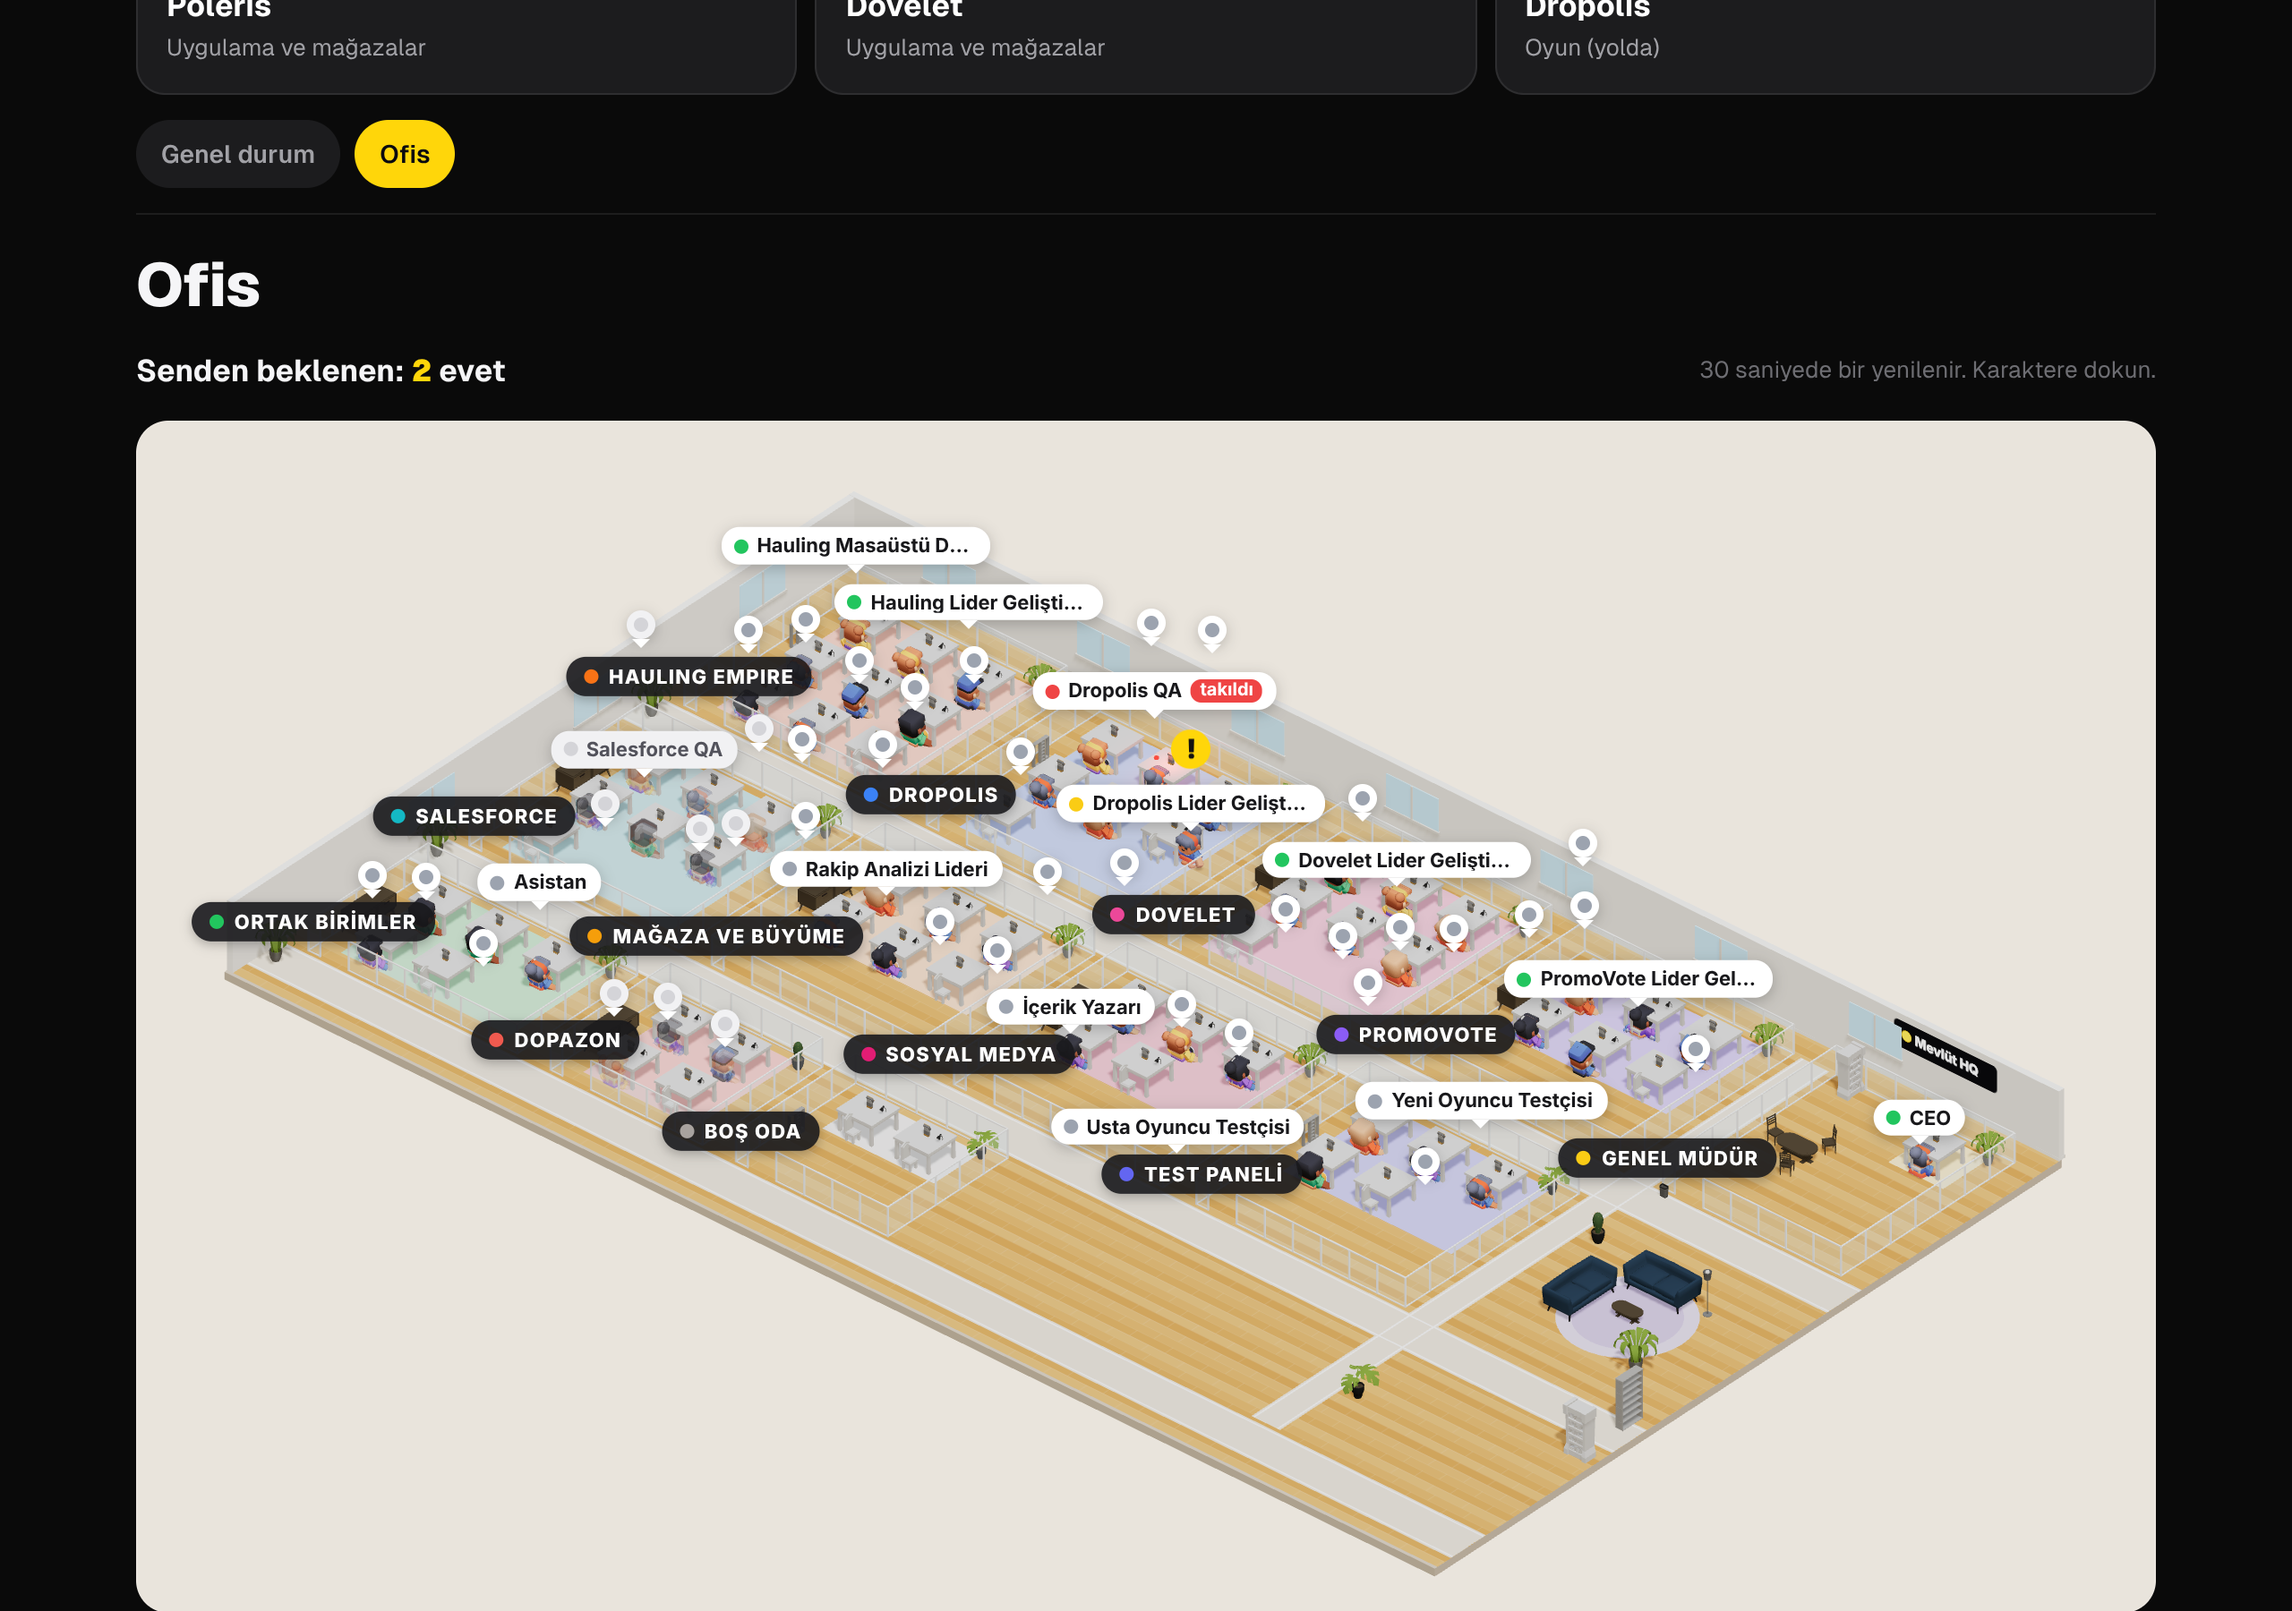
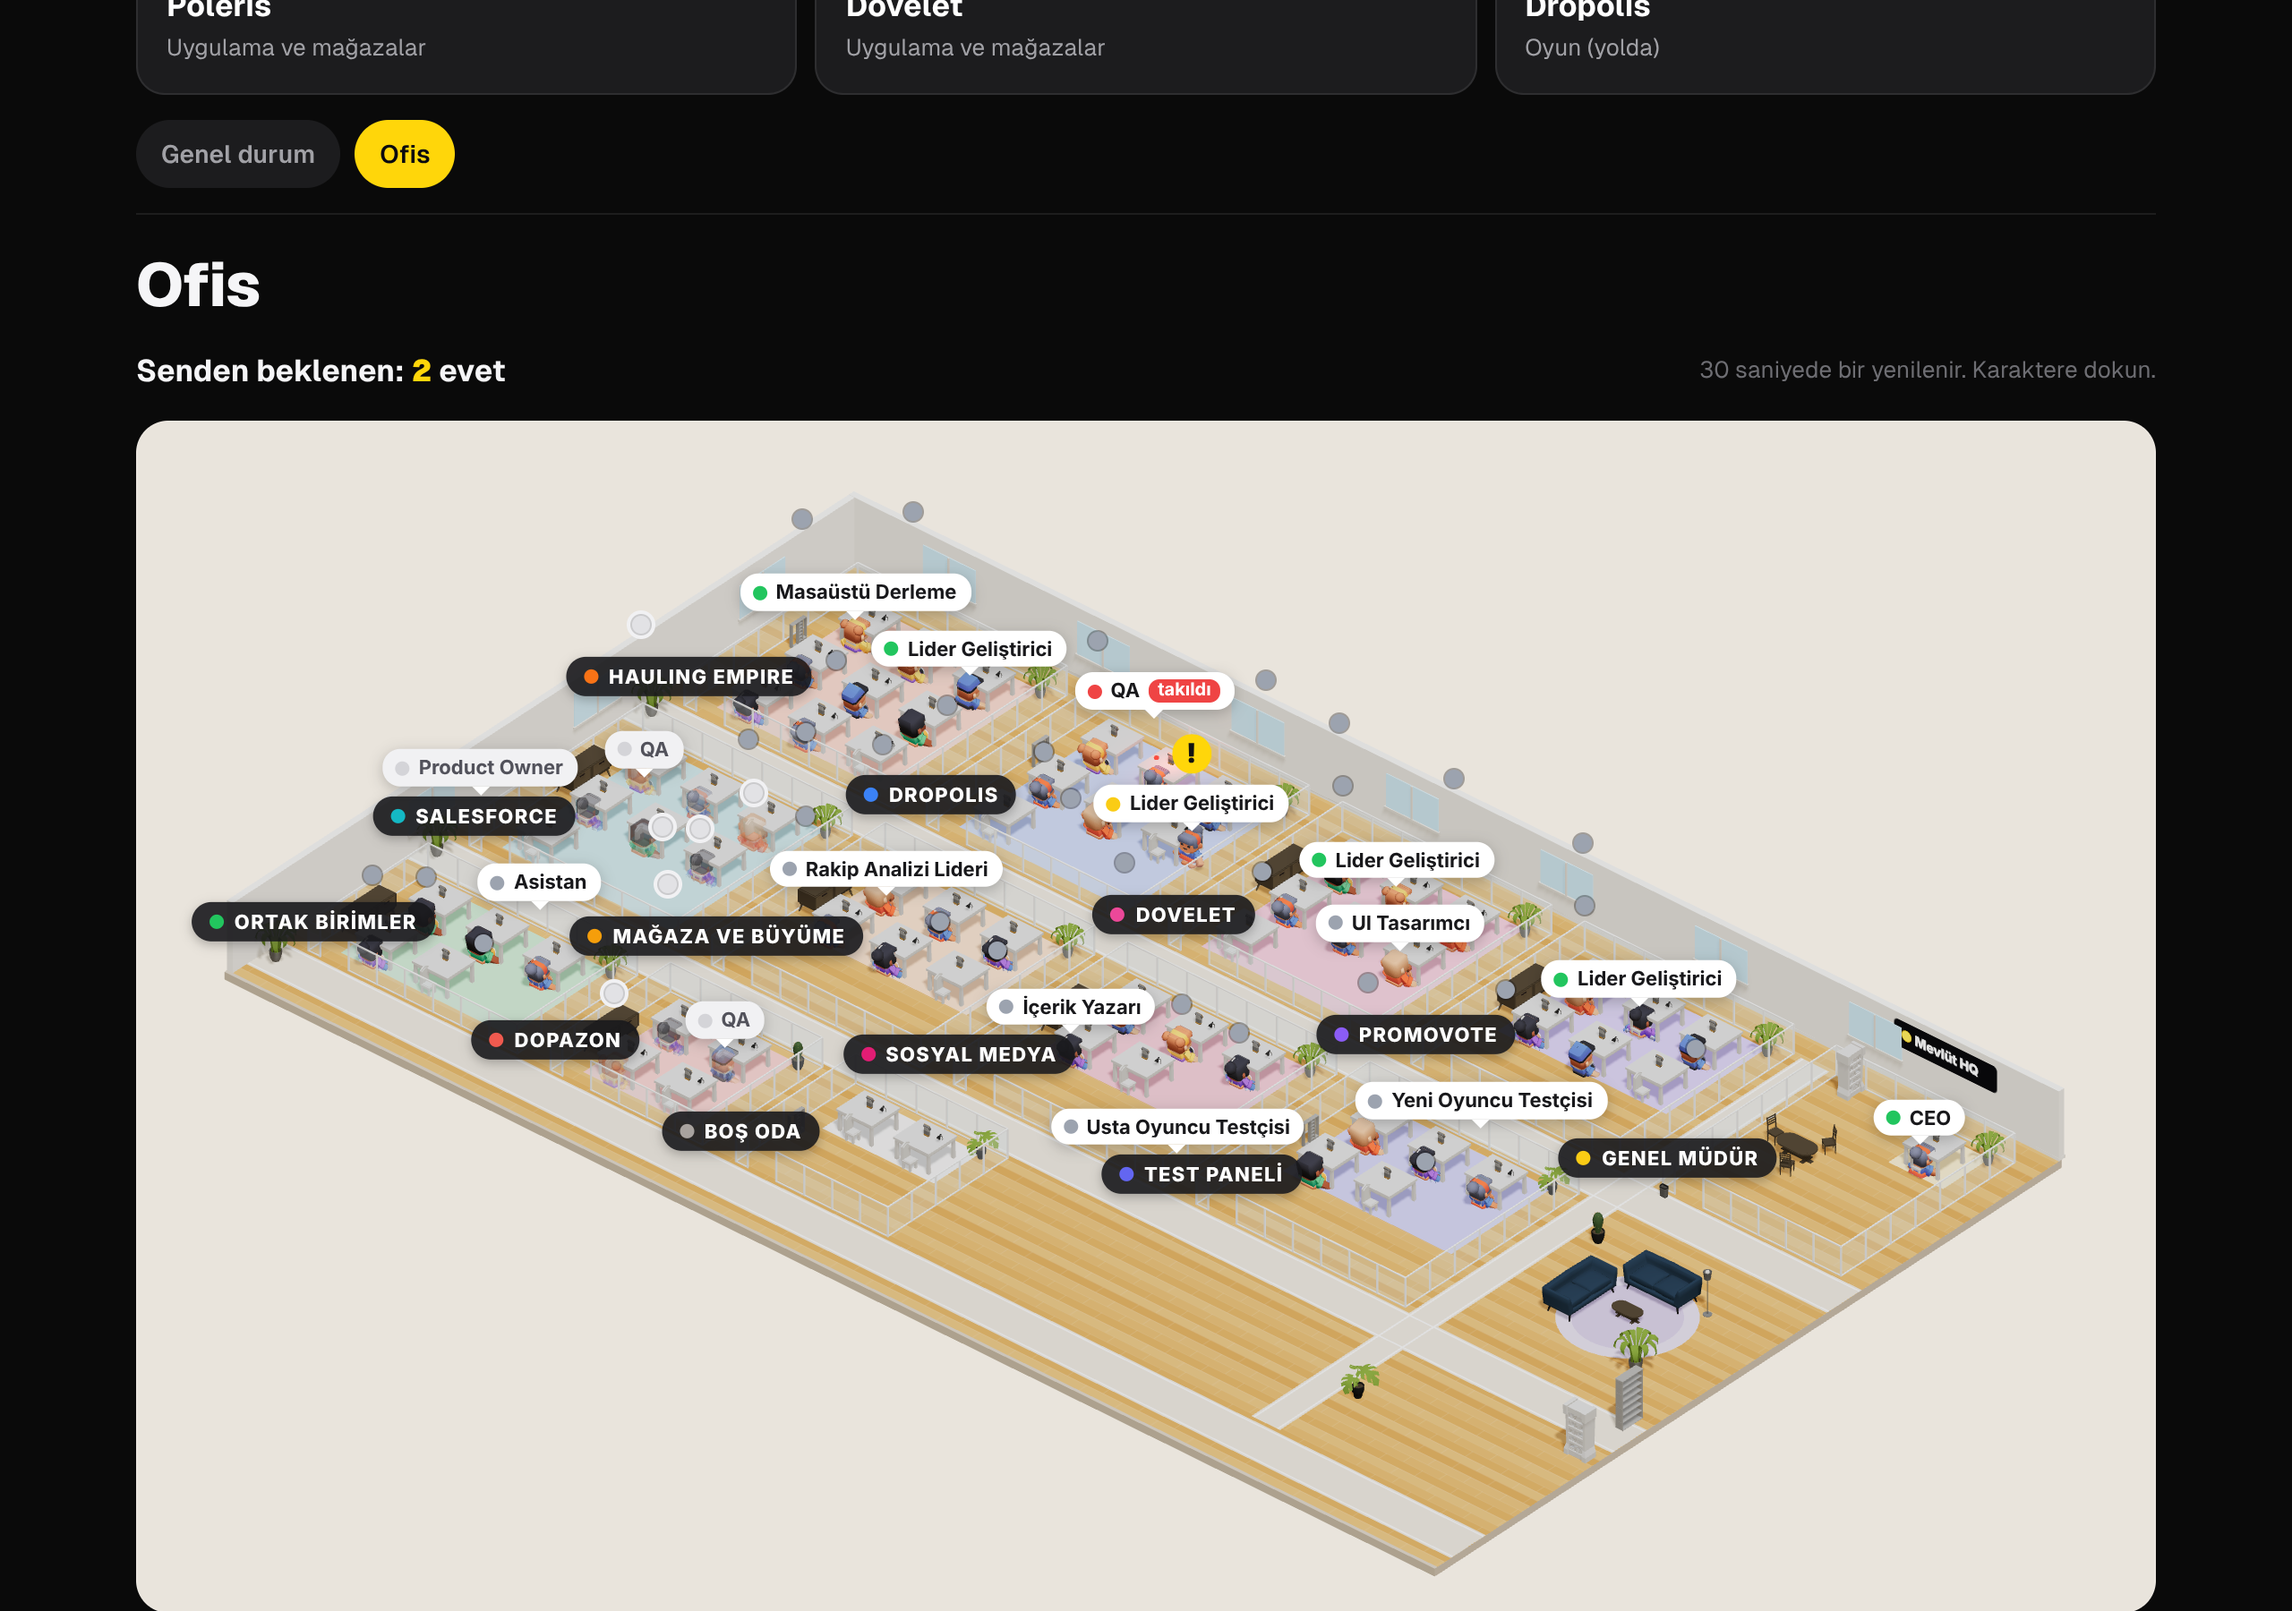
Admin Ofis: shorter bubble names inside a room, small flat status dots
Claude-Session: https://claude.ai/code/session_016Jsgeai3nmEVrWzNSNYGkb

diff --git a/web/landing/src/index.js b/web/landing/src/index.js
@@ -1173,7 +1173,7 @@ ${a.last_action ? `<p style="margin:0 0 6px">${esc(a.last_action)}</p>` : ""}${a
 .of-name span{overflow:hidden;text-overflow:ellipsis}
 .of-name::after{content:"";position:absolute;left:50%;bottom:-5px;margin-left:-5px;border:5px solid transparent;border-bottom:0;border-top-color:#fff}
 .of-name i{flex:none;width:8px;height:8px;border-radius:50%;background:var(--c)}
-.of-name.mini span{display:none}.of-name.mini{padding:4px;min-width:16px;min-height:16px;justify-content:center}.of-model{display:inline-block;margin-left:8px;padding:2px 7px;border-radius:999px;background:var(--surface-2);color:var(--muted);font-size:11px;font-weight:700;letter-spacing:.04em;vertical-align:middle}.of-name.off{background:#f1f1f3}.of-name.off span{color:#52525b}.of-name.sel{outline:2px solid #ffd60a}
+.of-name.mini span{display:none}.of-name.mini{padding:3px;gap:0;background:none;box-shadow:none;border-radius:50%}.of-name.mini::after{display:none}.of-name.mini i{width:10px;height:10px;box-shadow:0 0 0 1px rgba(24,24,27,.35)}.of-name.off.mini i{opacity:.5}.of-name.mini.sel{outline-offset:1px}.of-model{display:inline-block;margin-left:8px;padding:2px 7px;border-radius:999px;background:var(--surface-2);color:var(--muted);font-size:11px;font-weight:700;letter-spacing:.04em;vertical-align:middle}.of-name.off{background:#f1f1f3}.of-name.off span{color:#52525b}.of-name.sel{outline:2px solid #ffd60a}
 .of-name b{position:absolute;left:50%;top:-26px;margin-left:-11px;width:22px;height:22px;border-radius:50%;background:#ffd60a;color:#111;font:900 15px/22px system-ui;text-align:center;animation:of-bounce 1s ease-in-out infinite}
 .of-name em{font-style:normal;background:#ef4444;color:#fff;border-radius:6px;padding:1px 5px;font-size:10px}
 .of-pop{position:absolute;transform:translate(-50%,-100%);padding:5px 9px;border-radius:10px;background:#18181b;color:#fff;font:700 11px/1.2 system-ui;white-space:nowrap;max-width:180px;overflow:hidden;text-overflow:ellipsis;animation:of-pop 2.4s ease-out forwards}
@@ -1194,7 +1194,7 @@ ${a.last_action ? `<p style="margin:0 0 6px">${esc(a.last_action)}</p>` : ""}${a
 .of-need{margin:0 0 6px;padding:8px 10px;border-radius:10px;background:rgba(255,214,10,.1);color:#ffe066}
 .chip-n{background:var(--surface-2);color:var(--muted)}
 .of-legend{display:flex;gap:8px;flex-wrap:wrap;margin:10px 0 0;font-size:13px;color:var(--muted)}.of-legend span::before{content:"";display:inline-block;width:10px;height:10px;border-radius:50%;margin-right:6px;background:var(--c)}
-@media (max-width:600px){.of-stage{height:min(58vh,105vw);min-height:300px}.of-panel{top:auto;bottom:10px;right:10px;left:10px;width:auto;max-height:55%}.of-dept{font-size:8px;padding:3px 6px;gap:4px}.of-dept i{width:6px;height:6px}.of-name.quiet{padding:4px;gap:3px;min-width:16px;min-height:16px;justify-content:center}.of-name.quiet span{display:none}.of-name em{font-size:8px}.of-name b{width:18px;height:18px;line-height:18px;font-size:12px;margin-left:-9px;top:-22px}}
+@media (max-width:600px){.of-stage{height:min(58vh,105vw);min-height:300px}.of-panel{top:auto;bottom:10px;right:10px;left:10px;width:auto;max-height:55%}.of-dept{font-size:8px;padding:3px 6px;gap:4px}.of-dept i{width:6px;height:6px}.of-name.quiet{padding:3px;gap:0;background:none;box-shadow:none;border-radius:50%}.of-name.quiet::after{display:none}.of-name.quiet i{width:10px;height:10px;box-shadow:0 0 0 1px rgba(24,24,27,.35)}.of-name.quiet.off i{opacity:.5}.of-name.quiet span{display:none}.of-name em{font-size:8px}.of-name b{width:18px;height:18px;line-height:18px;font-size:12px;margin-left:-9px;top:-22px}}
 </style>
 <div class="top"><h1>Ofis</h1></div>
 <div class="of-top"><p class="of-ask" id="of-ask" aria-live="polite">Senden beklenen: <b>${waiting}</b> evet</p><p class="dim" style="margin:0;font-size:13px">30 saniyede bir yenilenir. Karaktere dokun.</p></div>

diff --git a/web/landing/public/admin-office.js b/web/landing/public/admin-office.js
@@ -44,6 +44,15 @@ const deptOf = (id) => (id === "ceo" ? "ceo" : DEPTS.find((d) => d.match(id)).ke
 const MODEL_RE = /\s*\((Opus|Sonnet|Haiku)\)\s*$/i;
 const modelOf = (role) => (String(role || "").match(MODEL_RE)?.[1] || "").replace(/^./, (c) => c.toUpperCase());
 const shortName = (role) => String(role || "").replace(MODEL_RE, "");
+// Inside its own room a bubble drops the project word (founder 2026-11-13): "Hauling Lider Geliştirici" in the
+// HAULING EMPIRE room reads "Lider Geliştirici". The side panel and the list keep the full role.
+const ROOM_WORD = { hauling: "hauling", dropolis: "dropolis", dovelet: "dovelet", promovote: "promovote", dopazon: "dopazon", salesforce: "salesforce" };
+function bubbleName(role, deptKey) {
+  const name = shortName(role), word = ROOM_WORD[deptKey];
+  if (!word) return name;
+  const m = name.match(/^(\S+)\s+(.+)$/);
+  return m && m[1].toLocaleLowerCase("tr") === word ? m[2] : name;
+}
 
 let W = 40, D = 30, ROOMS = [], CROSS_X = 30, RIGHT_X = 31, layoutKey = "";
 const ROW_W = 44; // width of the room area before the vertical corridor (4 big rooms per row)
@@ -462,7 +471,7 @@ function buildPeople() {
     const ss = st(a.status);
     const quiet = a.status === "idle" || a.status === "offline";
     const bubble = el("div", { class: "of-name" + (a.status === "offline" ? " off" : "") + (quiet ? " quiet" : ""), style: `--c:${ss.dot}`, title: `${a.role}: ${ss.label}` },
-      el("i"), el("span", {}, shortName(a.role)),
+      el("i"), el("span", {}, bubbleName(a.role, s.room.key)),
       a.status === "blocked" ? el("em", {}, "takıldı") : null,
       a.status === "waiting_owner" ? el("b", {}, "!") : null);
     bubble.addEventListener("click", () => openPanel(a.id));
